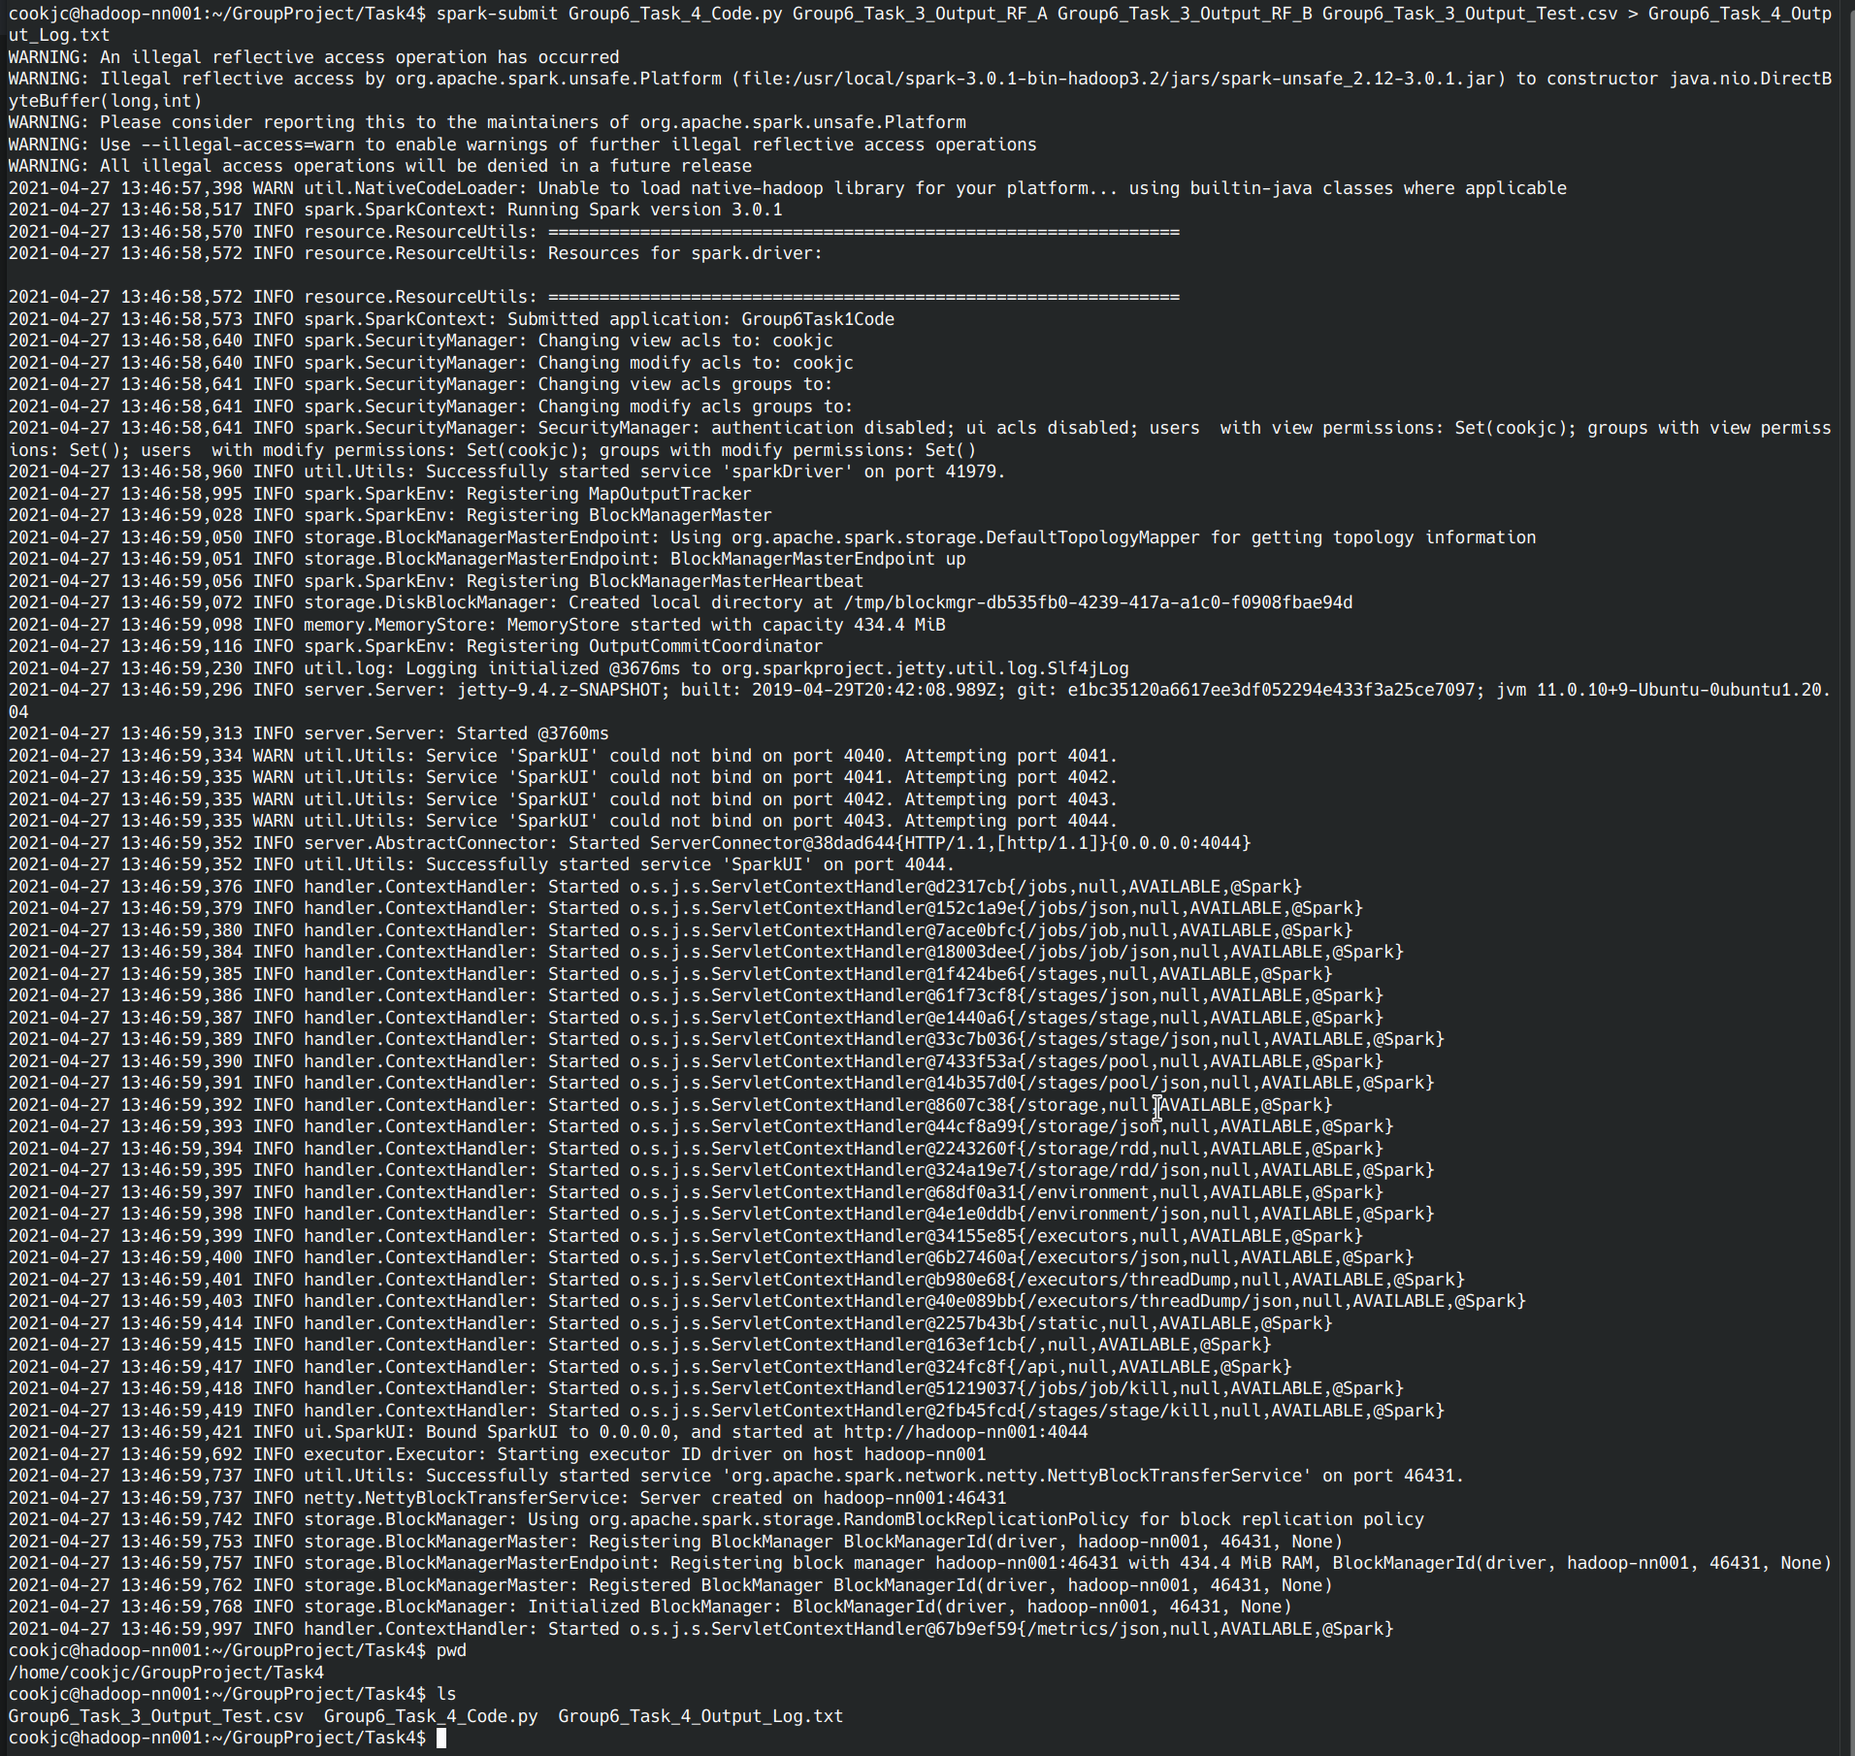
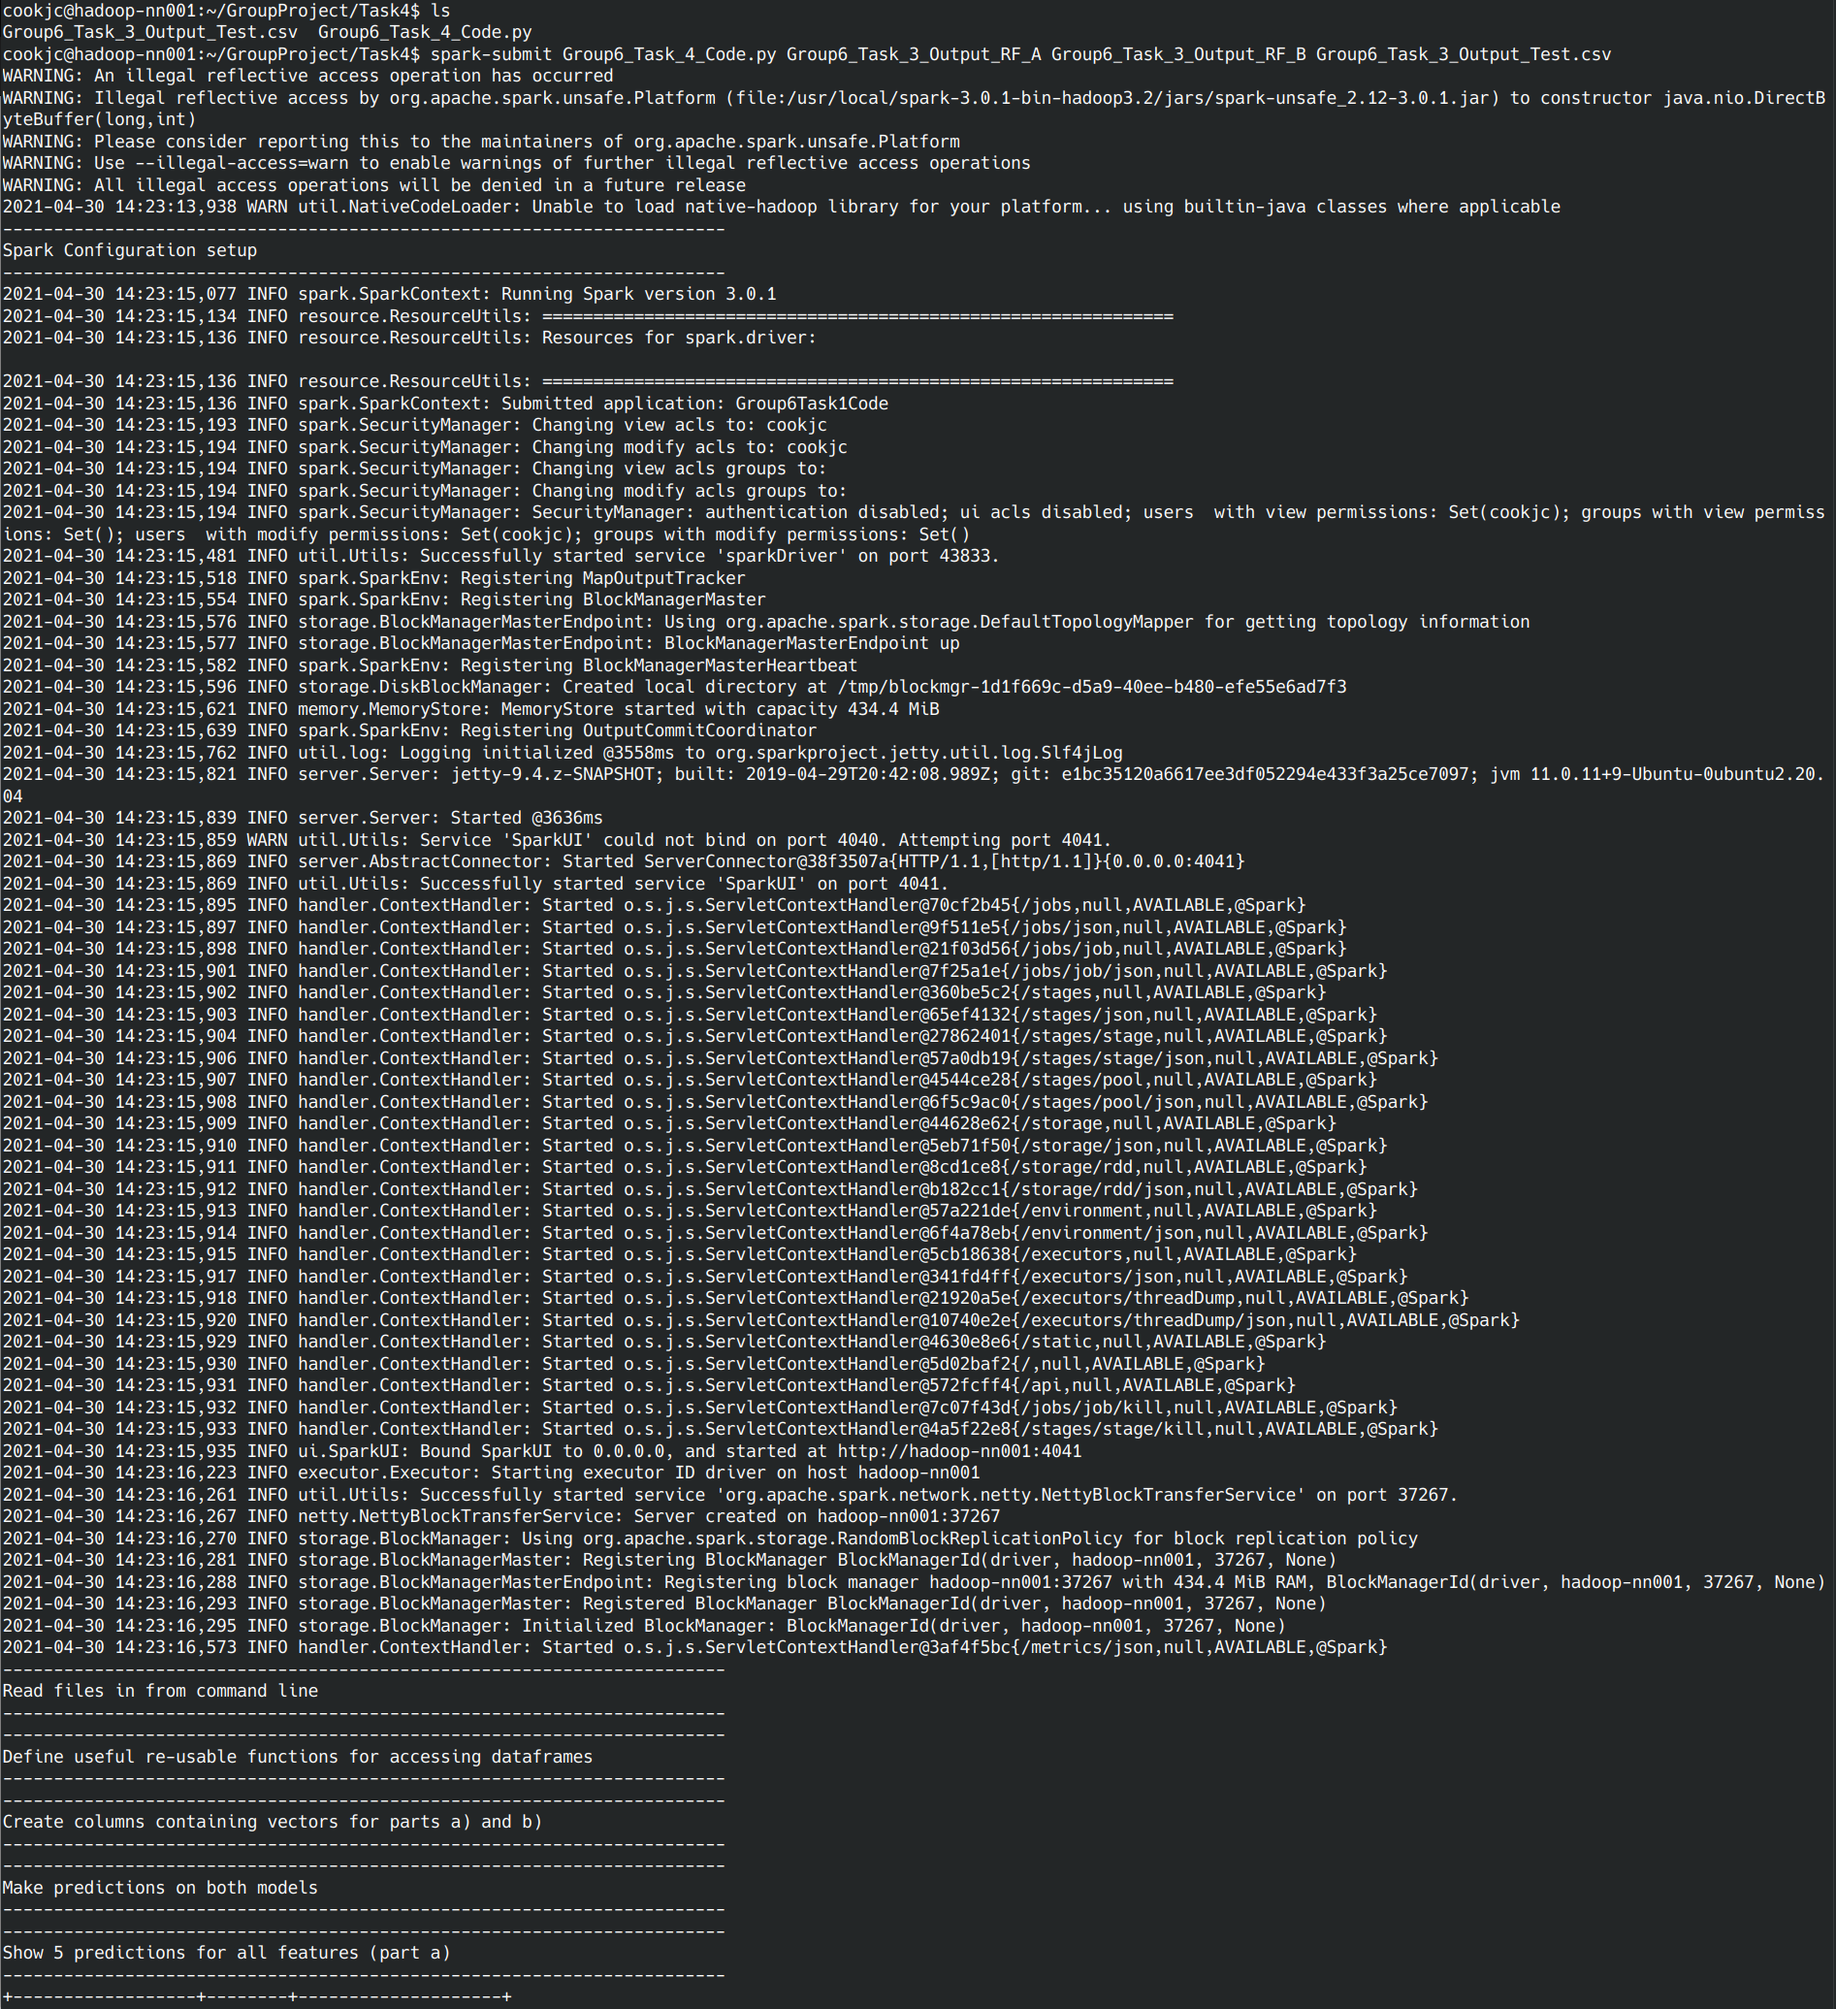
Finalize task 4

diff --git a/Group6_PA4/Group6_Task_4_README.md b/Group6_PA4/Group6_Task_4_README.md
@@ -46,12 +46,8 @@ hdfs dfs -copyFromLocal Group6_Task_3_Output_Test.csv /user/cookjc
 ```
 The program must now be submitted using `spark-submit`:
 ```
-spark-submit Group6_Task_4_Code.py Group6_Task_3_Output_RF_A Group6_Task_3_Output_RF_B Group6_Task_3_Output_Test.csv \
-> Group6_Task_4_Output_Log.txt
+spark-submit Group6_Task_4_Code.py Group6_Task_3_Output_RF_A Group6_Task_3_Output_RF_B Group6_Task_3_Output_Test.csv
 ```
-
-The `> Group6_Task_4_Output_Log.txt` is added onto the end so the 
-print statements in the file go to the console.
 
 ## Discussion of results
 
